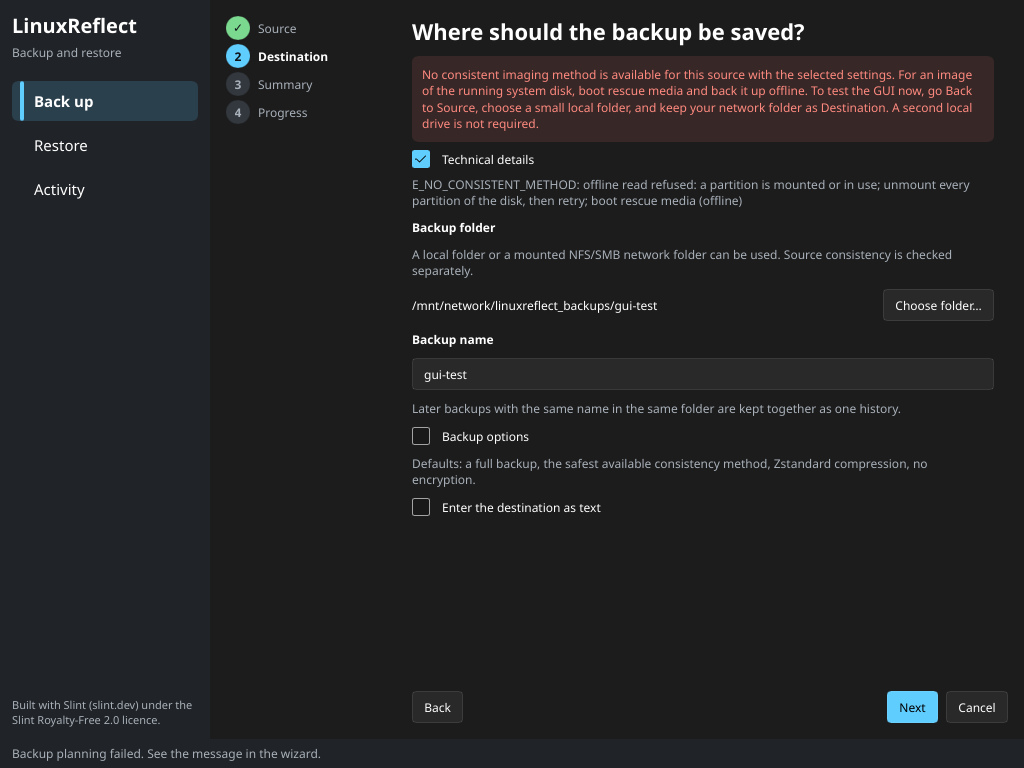
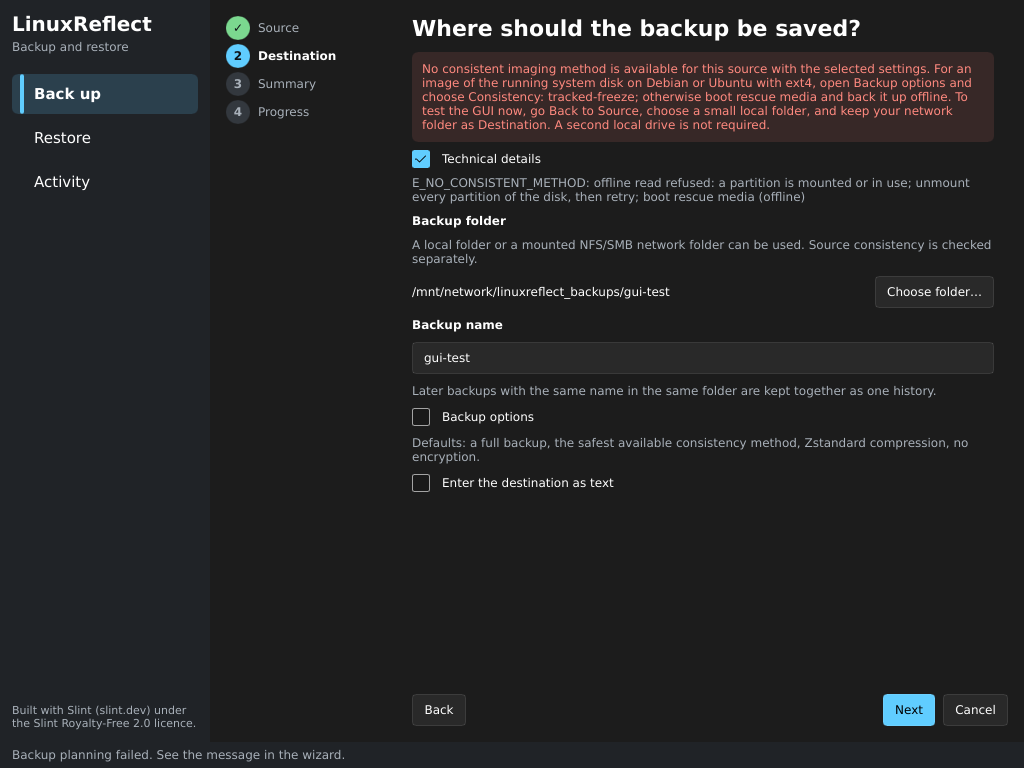
Offer tracked-freeze in the backup wizard (Slice 18 phase 4)
Wizard: Backup options → Consistency gains "tracked-freeze". It shows what
the option does and a "Longest pause (s)" spin box (1 to 30, default 3),
which becomes BackupSpec.freeze_max_secs and so the daemon's --freeze-max.

Texts:
- Review: for tracked-freeze it says the disk is copied while the system
  runs and that writes pause only for the final read; the plan's notes
  (the filesystems frozen together, the budget, the quiet regions, the
  hooks) follow it, from the daemon's PlanBackup.
- Result: it shows the live copy's passes, re-copied chunks and the length
  of the final pause.
- Refusal: a running system disk that cannot be planned now points to the
  tracked-freeze option before rescue media.

Two gallery scenes render the option and the review, the refusal
screenshot is updated, and the operator guide, README and plan say the
option is in the wizard.

Tests: a unit test of the plan and result texts; `cargo xtask ci` green
(743 passed).

diff --git a/crates/lr-gui/src/result.rs b/crates/lr-gui/src/result.rs
@@ -20,6 +20,10 @@ pub(crate) fn backup_plan(plan: &lr_proto::v1::Plan) -> String {
     let consistency = match plan.consistency.as_str() {
         "point-in-time" => "Planned consistency: a point-in-time snapshot.",
         "offline" => "Planned consistency: the source must remain offline.",
+        "frozen" if plan.provider == "tracked-freeze" => {
+            "Planned consistency: copied while the system runs; filesystem writes pause only \
+             for a final read of the last changes."
+        }
         "frozen" => "Planned consistency: filesystem writes will pause for the backup.",
         "per-file" => {
             "Planned consistency: files will be copied individually, not as one point-in-time snapshot."
@@ -95,9 +99,27 @@ pub(crate) fn describe(operation: &str, raw: &str) -> String {
             text.push_str(&format!("\n{label}: {}", crate::human_size(bytes)));
         }
     }
+    let tracked = value.get("tracked").filter(|tracked| tracked.is_object());
     if let Some(consistency) = value.get("consistency").and_then(serde_json::Value::as_str) {
         text.push('\n');
-        text.push_str(consistency_description(consistency));
+        text.push_str(if tracked.is_some() && consistency == "frozen" {
+            "Copied while the system ran; filesystem writes were paused only for the final read."
+        } else {
+            consistency_description(consistency)
+        });
+    }
+    if let Some(tracked) = tracked {
+        let number = |field: &str| tracked.get(field).and_then(serde_json::Value::as_u64);
+        if let (Some(passes), Some(recopied), Some(freeze_ms)) = (
+            number("passes"),
+            number("recopied_chunks"),
+            number("final_freeze_ms"),
+        ) {
+            text.push_str(&format!(
+                "\nLive copy: {passes} pass(es), {recopied} chunk(s) read again, final pause \
+                 {freeze_ms} ms."
+            ));
+        }
     }
     if let Some(encrypted) = value.get("encrypted").and_then(serde_json::Value::as_bool) {
         text.push_str(if encrypted {
@@ -116,6 +138,35 @@ pub(crate) fn describe(operation: &str, raw: &str) -> String {
 
 #[cfg(test)]
 mod tests {
+    #[test]
+    fn a_tracked_freeze_plan_and_report_say_writes_pause_only_for_the_final_read() {
+        let plan = lr_proto::v1::Plan {
+            provider: "tracked-freeze".into(),
+            image_kind: "Block".into(),
+            consistency: "frozen".into(),
+            warnings: vec!["freezes / together for at most 3 s".into()],
+            ..Default::default()
+        };
+        let text = super::backup_plan(&plan);
+        assert!(text.contains("copied while the system runs"), "{text}");
+        assert!(text.contains("for at most 3 s"), "{text}");
+        assert!(!text.contains("pause for the backup"), "{text}");
+
+        let report = r#"{"mode":"whole_disk","image_path":"/b/system.lrimg","consistency":"frozen",
+            "tracked":{"passes":2,"recopied_chunks":110,"final_chunks":40,"final_freeze_ms":1262,
+            "barrier_ms":1700,"frozen_filesystems":2,"package_waits":0}}"#;
+        let text = super::describe("backup", report);
+        assert!(text.contains("paused only for the final read"), "{text}");
+        assert!(
+            text.contains("Live copy: 2 pass(es), 110 chunk(s) read again, final pause 1262 ms."),
+            "{text}"
+        );
+        // An offline image says nothing of a live copy.
+        let text = super::describe("backup", r#"{"consistency":"offline","tracked":null}"#);
+        assert!(!text.contains("Live copy"), "{text}");
+        assert!(text.contains("offline while the backup was made"), "{text}");
+    }
+
     #[test]
     fn backup_review_reports_daemon_prediction_and_preserves_warnings() {
         let plan = lr_proto::v1::Plan {

diff --git a/crates/lr-gui/examples/gallery.rs b/crates/lr-gui/examples/gallery.rs
@@ -111,9 +111,10 @@ const SCENES: &[Scene] = &[
         ui.set_backup_set("gui-test".into());
         ui.set_backup_plan_error(
             "No consistent imaging method is available for this source with the selected settings. \
-             For an image of the running system disk, boot rescue media and back it up offline. \
-             To test the GUI now, go Back to Source, choose a small local folder, and keep your \
-             network folder as Destination. A second local drive is not required."
+             For an image of the running system disk on Debian or Ubuntu with ext4, open Backup \
+             options and choose Consistency: tracked-freeze; otherwise boot rescue media and back \
+             it up offline. To test the GUI now, go Back to Source, choose a small local folder, \
+             and keep your network folder as Destination. A second local drive is not required."
                 .into(),
         );
         ui.set_backup_plan_error_details(
@@ -123,6 +124,38 @@ const SCENES: &[Scene] = &[
         );
         ui.set_show_backup_plan_error_details(true);
         ui.set_status("Backup planning failed. See the message in the wizard.".into());
+    }),
+    ("backup-live-system", |ui| {
+        ui.set_current_tab(1);
+        ui.set_backup_step(1);
+        ui.set_source("/dev/nvme0n1".into());
+        ui.set_destination("/media/backup-drive/LinuxReflect".into());
+        ui.set_backup_set("workstation".into());
+        ui.set_advanced_backup(true);
+        ui.set_snapshot("tracked-freeze".into());
+        ui.set_freeze_max(3);
+    }),
+    ("backup-live-summary", |ui| {
+        ui.set_current_tab(1);
+        ui.set_backup_step(2);
+        ui.set_source("/dev/nvme0n1".into());
+        ui.set_destination("/media/backup-drive/LinuxReflect".into());
+        ui.set_backup_set("workstation".into());
+        ui.set_backup_summary(
+            "Planned method: tracked-freeze · Image kind: Block\n\
+             Planned consistency: copied while the system runs; filesystem writes pause only \
+             for a final read of the last changes.\n\
+             The daemon checks the source and safety requirements again when the backup starts.\n\
+             Note: tracked-freeze copies while the system runs, then freezes /boot, / together \
+             for at most 3 s (--freeze-max) to read the last changes; programs writing there \
+             wait during that freeze\n\
+             Note: 3 region(s) that cannot be frozen (an EFI system partition, BIOS boot, the \
+             boot area) are read under the same freeze; a write to one of them during that read \
+             fails the backup\n\
+             Note: no hooks are installed (/etc/linuxreflect/hooks): applications are imaged as \
+             a power cut would leave them on disk"
+                .into(),
+        );
     }),
     ("backup-running", |ui| {
         ui.set_current_tab(1);

diff --git a/crates/lr-gui/src/backup_feedback.rs b/crates/lr-gui/src/backup_feedback.rs
@@ -15,7 +15,9 @@ pub(crate) fn failure(error: &anyhow::Error) -> Failure {
     let message = match (code, status.map(tonic::Status::code)) {
         (Some("E_NO_CONSISTENT_METHOD"), _) => {
             "No consistent imaging method is available for this source with the selected settings. \
-             For an image of the running system disk, boot rescue media and back it up offline. \
+             For an image of the running system disk on Debian or Ubuntu with ext4, open Backup \
+             options and choose Consistency: tracked-freeze; otherwise boot rescue media and back \
+             it up offline. \
              To test the GUI now, go Back to Source, choose a small local folder, and keep your \
              network folder as Destination. A second local drive is not required."
         }

diff --git a/crates/lr-gui/src/models.rs b/crates/lr-gui/src/models.rs
@@ -20,6 +20,11 @@ pub(crate) fn backup_spec(ui: &MainWindow) -> BackupSpec {
         },
         member_type,
         allow_freeze: snapshot == "freeze" && ui.get_allow_freeze(),
+        freeze_max_secs: if snapshot == "tracked-freeze" {
+            u64::try_from(ui.get_freeze_max()).unwrap_or(0)
+        } else {
+            0
+        },
         allow_inconsistent: snapshot == "none" && ui.get_allow_inconsistent(),
         snapshot: if snapshot == "auto" {
             String::new()

diff --git a/docs/operator-guide.md b/docs/operator-guide.md
@@ -138,13 +138,17 @@ and choose the mounted network folder as Destination. Verify the created image
 in the Restore library, then restore into a new empty local directory.
 This exercises file recovery, not whole-disk boot recovery.
 
-The wizard still plans whole-disk images offline only, including every
-partition and active swap: it does not offer tracked-freeze yet. A running
-system disk without a suitable partition-level snapshot cannot be made
-consistent by choosing a network destination. Image it live from the CLI with
-tracked-freeze ([below](#live-system-images-tracked-freeze)), or boot rescue
-media for an offline whole-disk image; never freeze the running root
-filesystem with the plain freeze provider.
+With the default consistency, the wizard plans whole-disk images offline
+only, including every partition and active swap. A running system disk
+without a suitable partition-level snapshot cannot be made consistent by
+choosing a network destination. On Debian or Ubuntu with ext4, open **Backup
+options** and choose **Consistency: tracked-freeze** to image it while it
+runs ([below](#live-system-images-tracked-freeze)). **Longest pause** is
+`--freeze-max`, and the review names the filesystems the final freeze holds
+(rendered: [the option](screenshots/backup-live-system-1024x768@100-dark.png),
+[the review](screenshots/backup-live-summary-1024x768@100-dark.png)).
+Otherwise boot rescue media for an offline whole-disk image. Never freeze the
+running root filesystem with the plain freeze provider.
 Planning refusals appear in the wizard with expandable technical details.
 The [rendered refusal example](screenshots/backup-planning-refused-1024x768@100-dark.png)
 shows the layout, not acceptance on a physical desktop.
@@ -204,7 +208,8 @@ to an image file (A14).
 and in use, the root filesystem included, and with them the whole disk of a
 running system: `/`, `/boot`, the EFI system partition, the BIOS boot
 partition and the boot area before the first partition (spec §E.7, Slice 18).
-It is opt-in and, for now, a CLI feature:
+It is opt-in: in the backup wizard, choose **Consistency: tracked-freeze**
+under **Backup options**, or on the command line:
 
 ```sh
 sudo linuxreflect backup create --source /dev/nvme0n1 --dest /mnt/backup \
@@ -333,10 +338,10 @@ write load, restored to another disk, and booted from that disk alone
 ([`live-backup-acceptance.md`](live-backup-acceptance.md)).
 
 **Not done yet:** incremental and differential members (a tracked copy is
-always a full image; other types are refused), the backup wizard and
-`PlanBackup` predictions, the `--allow-inconsistent` exception for a busy
-ESP, and xfs. **Untested so far:** real hardware at full speed and a desktop
-session during the backup. Jobs through the daemon are covered by a root test
+always a full image; other types are refused), the `--allow-inconsistent`
+exception for a busy ESP, and xfs. **Untested so far:** real hardware at
+full speed, a desktop session during the backup, and a backup started from
+the GUI in a VM. Jobs through the daemon are covered by a root test
 on loop disks, not by the VM acceptance, which runs the CLI without a daemon.
 
 ## Chains: full, incremental, differential

diff --git a/docs/live-backup-plan.md b/docs/live-backup-plan.md
@@ -19,9 +19,10 @@ whose 300 s default stretched the final-freeze budget to the 30 s cap); only
 passes that do not shrink the dirty set count against `max_passes`, as §E.7
 says; the pre-freeze and post-thaw hooks run (D-140); the daemon and every
 tracked job sweep leftover trace instances of dead processes; and the
-convergence budget uses the reads' own rate. Still open: incremental
-members, the rest of phase 4 (`PlanBackup`, the wizard, the
-GUI acceptance) and phase 5. It implements spec v2.2 §E.7 and Slice 18
+convergence budget uses the reads' own rate; `PlanBackup` predicts a live
+whole-disk copy (provider, `Frozen`, the filesystems frozen, the budget),
+and the wizard offers tracked-freeze with its longest pause. Still open:
+incremental members, the GUI acceptance in a VM (phase 4) and phase 5. It implements spec v2.2 §E.7 and Slice 18
 (decision D-138).
 
 ## Goal

diff --git a/AGENTS.md b/AGENTS.md
@@ -17,8 +17,9 @@ six distribution and firmware runs imaged live, restored and booted, re-run
 on `1986503` with the 3 s `--freeze-max` default). Phase 4 added the restore
 plan's shared-UUID warning (D-139), `--freeze-max`, the pre-freeze/post-thaw
 hooks (D-140), a sweep of dead jobs' trace instances, a read-only convergence
-rate and a root test of a live job through the daemon. Incremental members,
-`PlanBackup` and the GUI wizard are not done yet.
+rate, a root test of a live job through the daemon, a truthful `PlanBackup`
+for a live whole disk and the wizard's tracked-freeze option. Incremental
+members and the GUI acceptance in a VM are not done yet.
 
 The MVP is slices S1–S11 (spec §K). Slices are landed one pull request each.
 Current state: S1 (workspace, `lr-core`, `lr-unsafe`, capability probe,

diff --git a/README.md b/README.md
@@ -65,8 +65,8 @@ devices directly, and only makes a live, possibly inconsistent copy when you
 ask for it explicitly. On Debian and Ubuntu's plain ext4, `--snapshot
 tracked-freeze` images the running system disk live: it tracks writes while it
 copies and freezes the filesystems only for a final read of about a second,
-and the copy restores to another disk and boots (CLI only for now; see the
-operator guide). The plan shown before a backup and the report after
+and the copy restores to another disk and boots (opt-in, from the CLI or the
+backup wizard's options; see the operator guide). The plan shown before a backup and the report after
 it state the consistency **actually achieved**; it never claims a snapshot
 it did not make.
 
